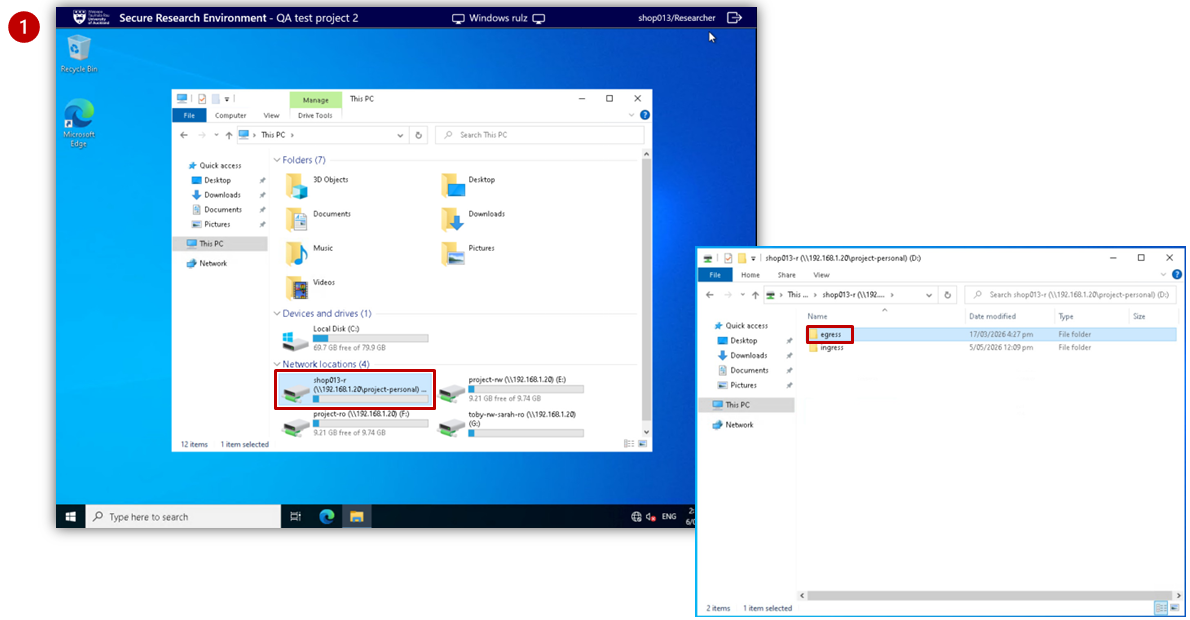
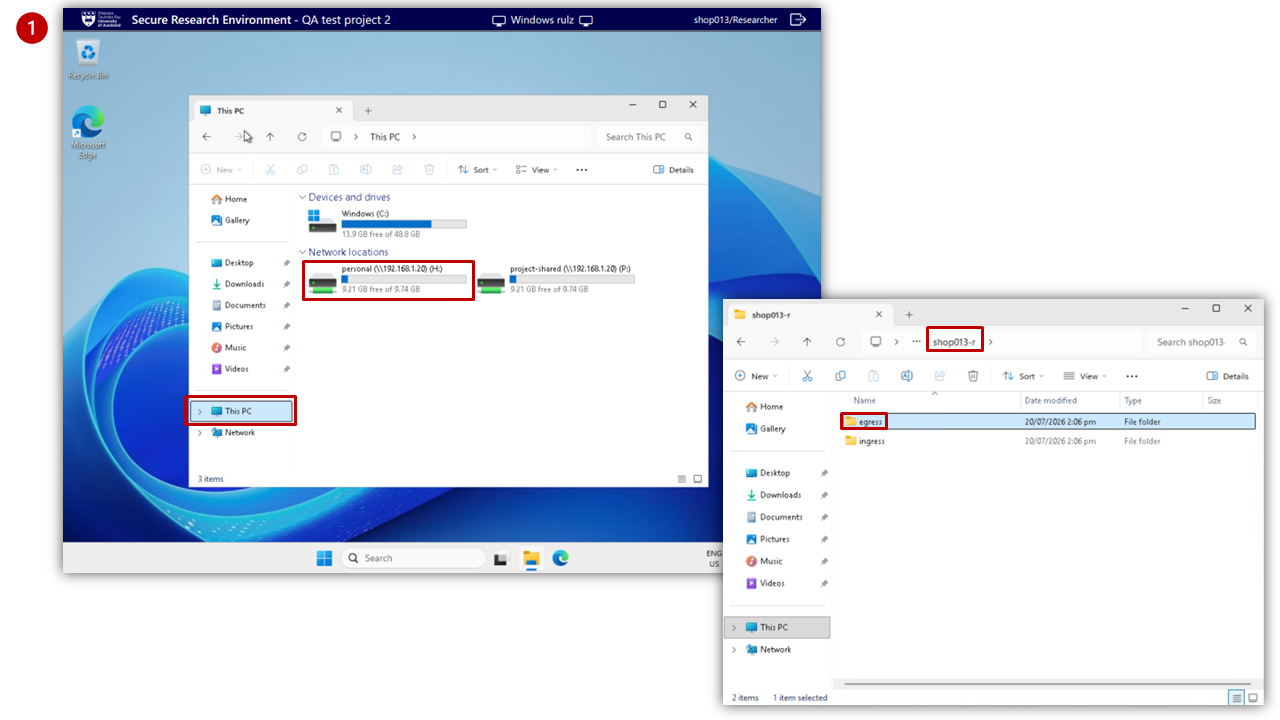
Update storage locations for dc ia ea

diff --git a/docs/As_a_data_custodian.md b/docs/As_a_data_custodian.md
@@ -40,13 +40,13 @@ A data custodian can import (ingress) data and files directly into the Secure Re
 
 <ol start="5">
   <li>
-    The files will be moved into a timestamped folder within the ingress sub-folder of your personal Data Custodian (<code>username-dc</code>).
+    The files will be moved into a timestamped folder within the <code>ingress</code> sub-folder of your Data Custodian storage folder (<code>username-dc</code>). Access this folder from the <code>personal</code> storage area.
     <ul>
       <li>
-        <strong>Windows VM:</strong>: Click on the File Explorer from the taskbar at the bottom of the virtual desktop. Select <strong>This PC</strong> to display available folders within “Network locations”. Select <code>data-custodian > [username]-dc > ingress</code>.
+        <strong>Windows VM:</strong>: Click on the File Explorer from the taskbar at the bottom of the virtual desktop. Select <strong>This PC</strong> to display available folders within “Network locations”. Select <code>personal</code> > <code>username-dc</code> > <code>ingress</code>.
       </li>
       <li>
-        <strong>Linux VM:</strong> Click on <strong>File Manager</strong> from the taskbar at the bottom of the virtual desktop. Select <code>project_data > data-custodian > [username]-dc > ingress.</code>
+        <strong>Linux VM:</strong> Click on <strong>File Manager</strong> from the taskbar at the bottom of the virtual desktop. Select <code>personal</code> > <code>username-dc</code> > <code>ingress</code>.
       </li>
     </ul>
   </li>
@@ -86,7 +86,7 @@ A Data Custodian can export (egress) data and files directly out of the Secure R
 
 <ol>
   <li>
-    Open your personal folder <code>[username]-dc</code> on the <strong>Virtual Desktop</strong> and copy the file to be downloaded into the <code>egress</code> subfolder.
+    Open your personal folder <code>username-dc</code> on the <strong>Virtual Desktop</strong> and copy the file to be downloaded into the <code>egress</code> subfolder.
     <div class="callout">
       All files in the <code>egress</code> sub-folder will be copied to the staging area when a request is submitted. If you have file(s) from an earlier egress request in this folder, please delete those files before submitting a new request.
     </div>

diff --git a/docs/As_a_researcher.md b/docs/As_a_researcher.md
@@ -66,9 +66,9 @@ As a researcher, use the **Ingress Request** to import files from your computer 
 
 <ol start="7">
   <li>
-    The files will be moved into a timestamped folder within the <ecode>ingress</code> sub-folder of your personal folder (<code>username-r</code>). Access this folder from within the projects <code>personal</code> storage area.
+    The files will be moved into a timestamped folder within the <code>ingress</code> sub-folder of your personal storage folder (<code>username-r</code>). Access this folder from within the <code>personal</code> storage area.
     <div class="callout">
-      Keep the file in your personal folder or copy/move it into the <code>project-rw</code> folder to share and collaborate with the rest of your team. You can access the <code>project-rw</code> folder within the <code>project-shared</code> storage area.
+      Keep the file in your personal folder or copy/move it into <code>project-rw</code> to share and collaborate with the rest of your team. You can access the <code>project-rw</code> folder within the <code>project-shared</code> storage area.
     </div>
   </li>
 </ol>
@@ -102,7 +102,7 @@ Use a virtual desktop to access and work with project data on a secure VM.
         <strong>Windows VM:</strong> Click on the File Explorer from the taskbar at the bottom of the virtual desktop. Select <strong>This PC</strong> to display available folders within "Network locations" to open the folder you want.
       </li>
       <li>
-        <strong>Linux VM:</strong> Click on the File Manager from the taskbar at the bottom of the virtual desktop. Select <code>project_data</code> to display available folders.
+        <strong>Linux VM:</strong> Click on the File Manager from the taskbar at the bottom of the virtual desktop. Select <code>personal</code> or <code>project_shared</code> to display available folders.
         <div class="callout">
           Personal folders, accessed within the <code>personal</code> storage area, are intended for individual use, while folders within the <code>project-shared</code> storage area enable collaboration across the project team.
         </div>

diff --git a/docs/As_a_data_ingress_approver.md b/docs/As_a_data_ingress_approver.md
@@ -18,10 +18,10 @@ As an Ingress Approver, use Data Ingress Requests to check and approve files(s) 
     Use the <strong>Management VM</strong> to view and inspect the file(s).
     <ul>
       <li>
-        <strong>Windows VM:</strong> Click on the File Explorer from the taskbar at the bottom of the virtual desktop. Select <strong>This PC</strong> to display available folders within "Network locations". Select <code>ingress-approver > [username]-r (user who made the request).</code>
+        <strong>Windows VM:</strong> Click on the File Explorer from the taskbar at the bottom of the virtual desktop. Select <strong>This PC</strong> to display available folders within "Network locations". Select <code>project_shared</code> > <code>ingress-approver</code> > <code>username-r</code> (user who made the request).
       </li>
       <li>
-        <strong>Linux VM:</strong> Click on the <strong>File Manager</strong> from the taskbar at the bottom of the virtual desktop. Select <code>project_data > ingress-approver > [username]-r</code> (user who made the request).
+        <strong>Linux VM:</strong> Click on the <strong>File Manager</strong> from the taskbar at the bottom of the virtual desktop. Select <code>project_shared</code> > <code>ingress-approver</code> > <code>username-r</code> (user who made the request).
       </li>
     </ul>
   </li>

diff --git a/docs/As_a_data_egress_approver.md b/docs/As_a_data_egress_approver.md
@@ -18,10 +18,10 @@ As an Egress Approver, use Data Egress Requests to check and approve files(s) th
     Use the <strong>Management VM</strong> to view and inspect the file(s).
     <ul>
       <li>
-        <strong>Windows VM:</strong> Click on the File Explorer from the taskbar at the bottom of the virtual desktop. Select <strong>This PC</strong> to display available folders within "Network locations". Select <code>egress-approver > [username]-r (user who made the request).</code>
+        <strong>Windows VM:</strong> Click on the File Explorer from the taskbar at the bottom of the virtual desktop. Select <strong>This PC</strong> to display available folders within "Network locations". Select <code>project_shared</code> > <code>ingress-approver</code> > <code>username-r</code> (user who made the request).
       </li>
       <li>
-        <strong>Linux VM:</strong> Click on the <strong>File Manager</strong> from the taskbar at the bottom of the virtual desktop. Select <code>project_data > egress-approver > [username]-r</code> (user who made the request).
+        <strong>Linux VM:</strong> Click on the <strong>File Manager</strong> from the taskbar at the bottom of the virtual desktop. Select <code>project_shared</code> > <code>egress-approver</code> > <code>username-r</code> (user who made the request).
       </li>
     </ul>
   </li>
